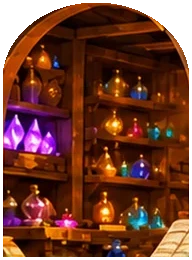
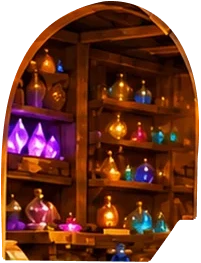
feat(ui): the vista's door hole uses the owner's painted door shape

diff --git a/packages/ui/src/styles.css b/packages/ui/src/styles.css
@@ -548,12 +548,13 @@ canvas.spr { image-rendering: pixelated; display: block; }
 @keyframes vistadooropen { 0% { opacity: 1; } 30% { opacity: 0; } 100% { opacity: 0; } }
 /* The hole moves WITH THE SHOP: the masked group and the door's wrapper carry the shop's push, and the layers inside the
    group push RELATIVE to it (sky 1.03 / 1.12 and so on), so each layer still ends at the same scale as before while the
-   hole stays exactly on the shop's doorway the whole way. The mask is one SVG (`vista-doormask.svg`: the whole
-   picture, minus the doorway), static, so it is drawn once and only carried by the transform. */
+   hole stays exactly on the shop's doorway the whole way. The mask (`vista-doormask.png`: the whole picture, minus the
+   doorway the OWNER PAINTED, his soft edge kept, 2026-10-23) is static, so it is drawn once and only carried by the transform. */
 .wipevista-masked, .wipevista-doorwrap { position: absolute; inset: 0; transform-origin: 47.7% 83%; will-change: transform; }
-.wipevista-masked { -webkit-mask: url('/vista-doormask.svg') 0 0 / 100% 100% no-repeat; mask: url('/vista-doormask.svg') 0 0 / 100% 100% no-repeat; }
-/* The doorway's interior (`vista-doorfill.webp`, cut a touch larger than the hole so no hairline can show), at its box. */
-.wipevista-doorfill { position: absolute; left: 43.9063%; top: 65.4167%; width: 7.5%; height: 18.0556%;
+.wipevista-masked { -webkit-mask: url('/vista-doormask.png') 0 0 / 100% 100% no-repeat; mask: url('/vista-doormask.png') 0 0 / 100% 100% no-repeat; }
+/* The doorway's interior (`vista-doorfill.webp`: the owner's door shape grown 3 px, so it overlaps the frame and no
+   hairline can show), at its box. */
+.wipevista-doorfill { position: absolute; left: 43.75%; top: 65.1389%; width: 7.8516%; height: 18.2639%;
   background: url('/vista-doorfill.webp') 0 0 / 100% 100% no-repeat; will-change: opacity; }
 .wipevista-layer { position: absolute; inset: 0; background: 50% 50% / 100% 100% no-repeat; transform-origin: 47.7% 83%; will-change: transform; }
 /* The sky carries the vista's fallback colour (for a slow image load) ON ITS OWN LAYER, inside the masked group, so the door

diff --git a/packages/ui/src/wipeMachine.test.ts b/packages/ui/src/wipeMachine.test.ts
@@ -135,7 +135,7 @@ describe('the return trip is the vista, not the gate', () => {
 
   it('moves by opacity and transform only', () => {
     // (…and the portal: the doorway's interior fading open, owner 2026-10-23.)
-    expect(css).toContain(".wipevista-masked { -webkit-mask: url('/vista-doormask.svg')");
+    expect(css).toContain(".wipevista-masked { -webkit-mask: url('/vista-doormask.png')");
     for (const k of ['vistadooropen', 'vistafade', 'vistadive', 'vistapushsky', 'vistapushfar', 'vistapushmid', 'vistapushshop', 'vistapushfore']) {
       const frames = new RegExp(`@keyframes ${k} \\{([\\s\\S]*?)\\} \\}`).exec(css)?.[1] ?? '';
       expect(frames, k).toMatch(/transform|opacity/);
